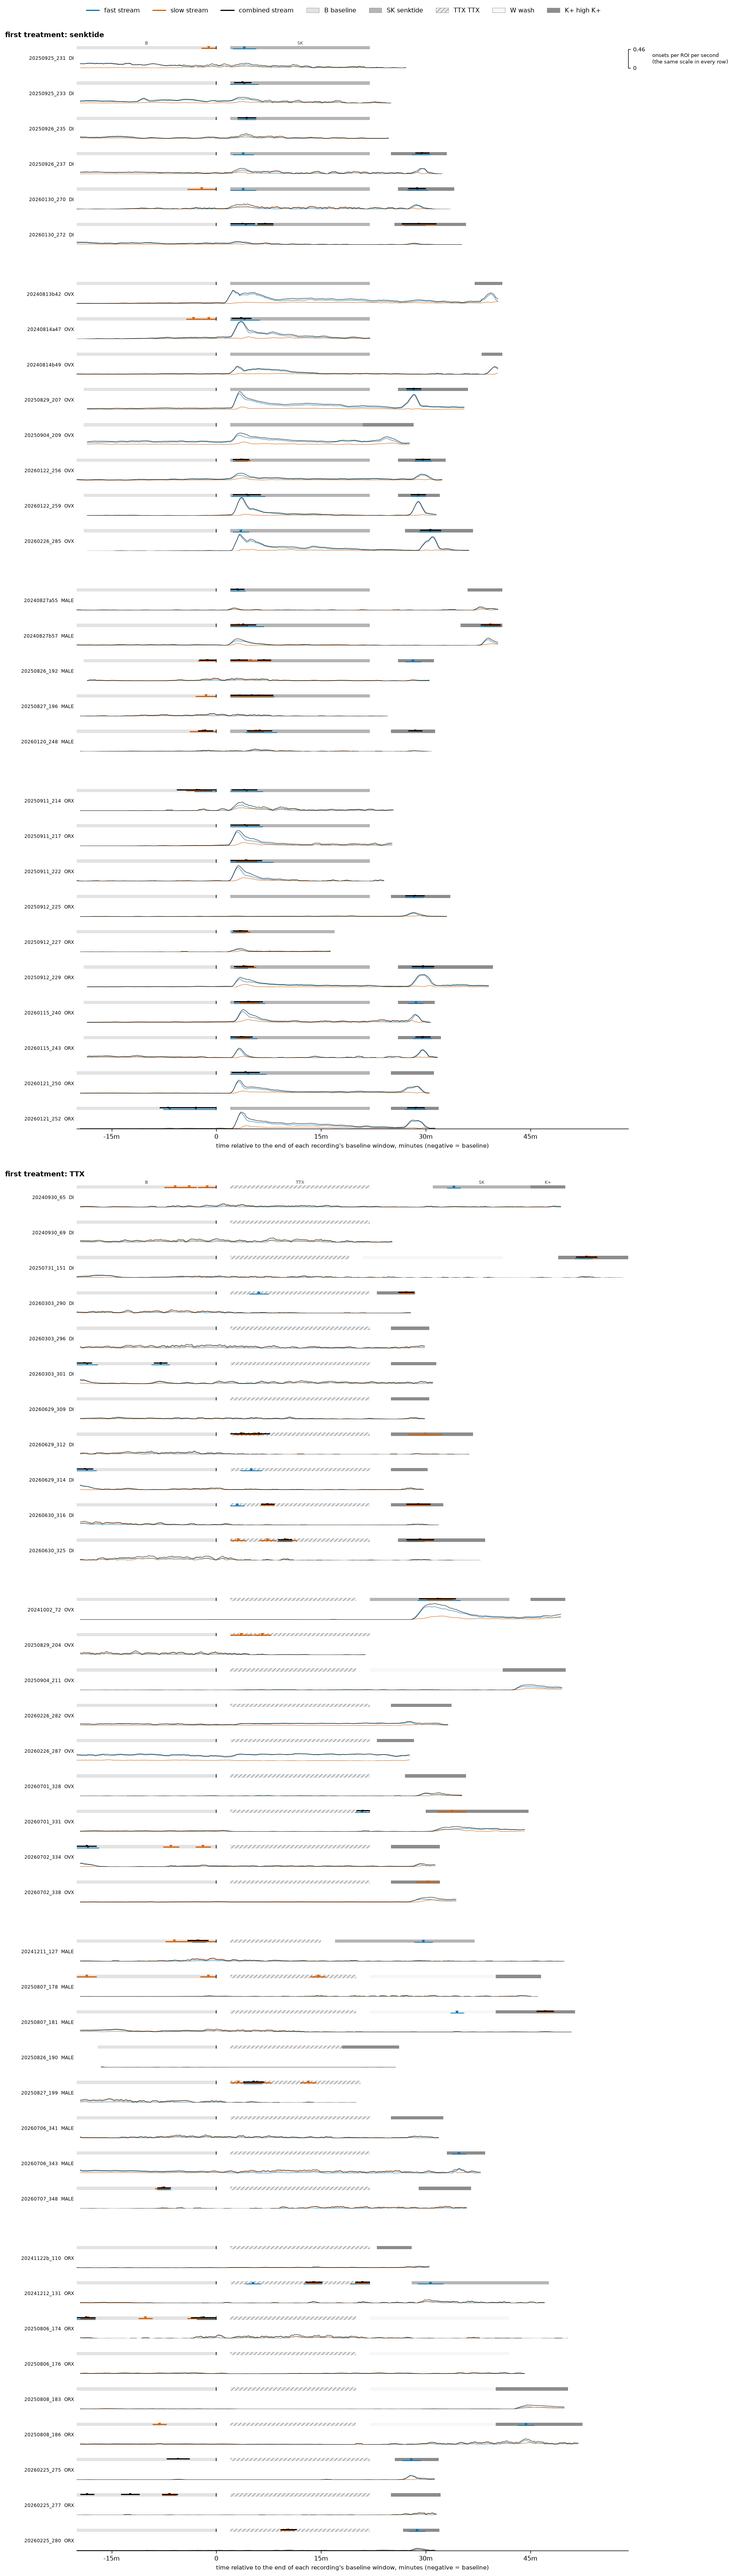
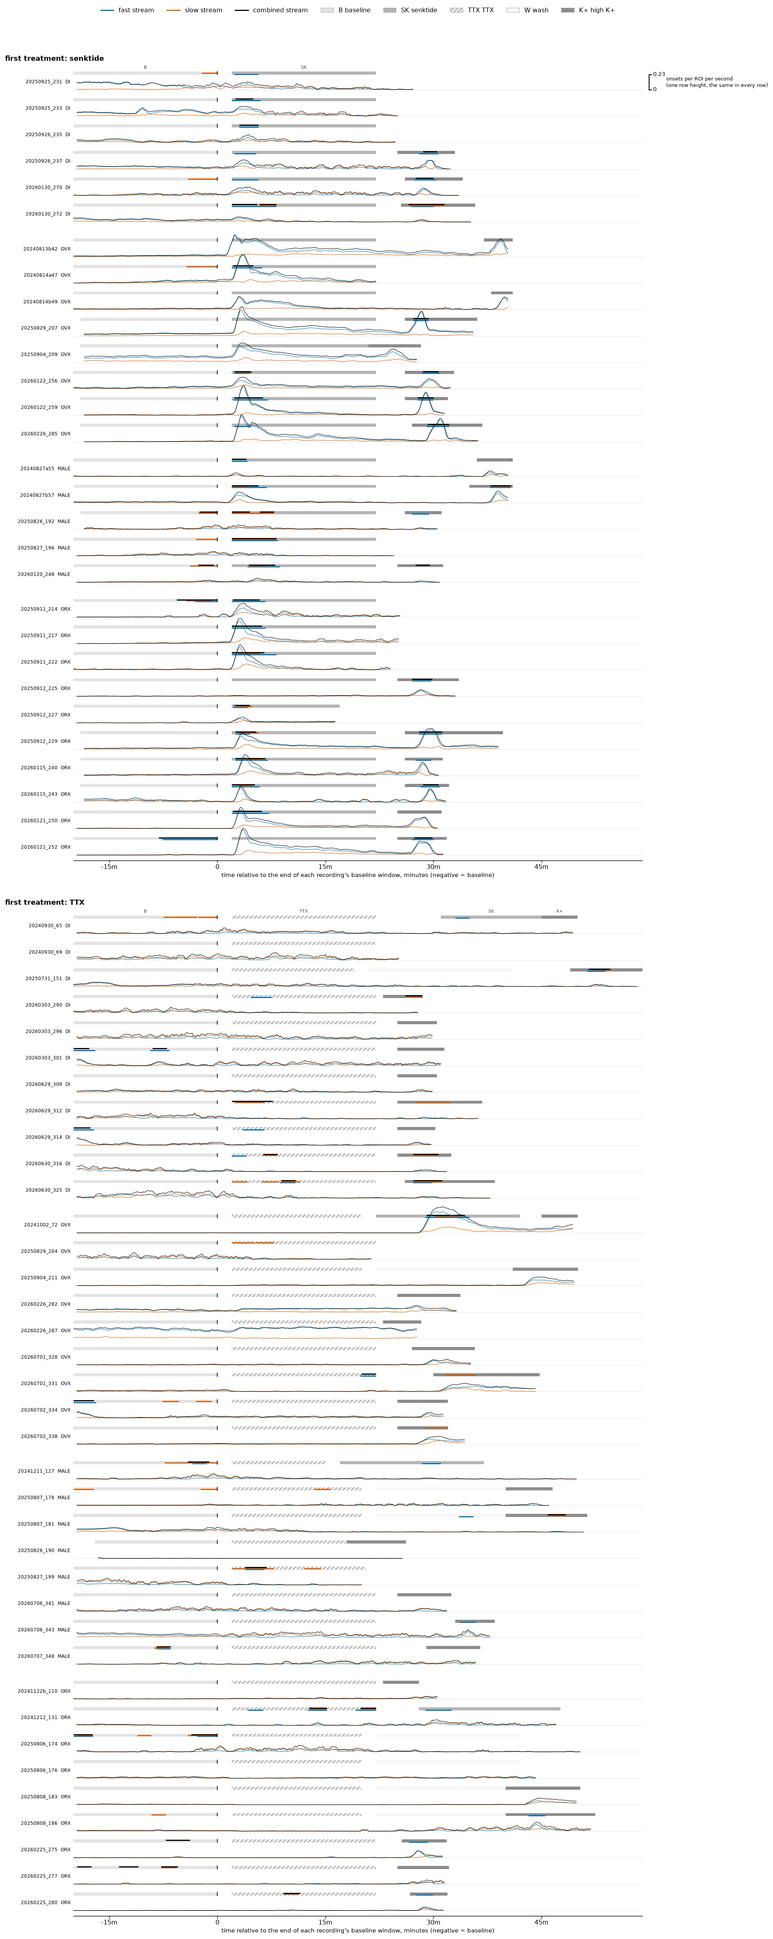
Figure 3 as a hidden-line waterfall at twice the gain
Tony: let the plots overrun their axes for about 2x magnification. One
row height is now 0.23 onsets per ROI per second in every row; traces
above it run up into the rows above, unclipped. Rows are drawn top
down in one axes, each on a white fill up to its highest curve, so a
lower row's peak hides what is behind it; within a row the traces sit
over the lane. The largest peak reaches 1.97 rows; 14 rows exceed one
row and none reaches two, all listed in the caption. Figures 1a-c keep
their per-row scales.

Changed region(s): [[0.0309, 0.0, 0.7733, 0.9996]]

diff --git a/tools/make_rate_stretch_figures.py b/tools/make_rate_stretch_figures.py
@@ -274,9 +274,145 @@ def fig1(R, stream, out: Path, curves: dict) -> Path:
     return stacked(R, (stream,), False, out / f"fig1_{stream}_population_rate.png", curves)[0]
 
 
+ROW_HZ = 0.23
+"""Figure 3's gain: one row height is 0.23 onsets per ROI per second (Tony, 2026-09-24: "let the
+plots overrun their axes ... a mag of ~2x"). The largest peak, 0.452, reaches about two rows."""
+
+
 def fig3(R, out: Path, curves: dict) -> tuple[Path, dict]:
-    """The three streams superimposed on ONE y-scale with a single reference axis."""
-    return stacked(R, STREAMS, True, out / "fig3_three_streams_one_scale.png", curves)
+    """The three streams superimposed on ONE scale, drawn as a hidden-line waterfall.
+
+    One axes, one row per recording at its own vertical offset; a row height is :data:`ROW_HZ`.
+    A trace that exceeds it runs up into the rows above, unclipped and never rescaled. Rows are
+    drawn from the top down, each at a higher z-order than the row above it, and each row's traces
+    sit on a white fill from their baseline up to the highest of the three curves, so a lower
+    row's peak covers what lies behind it instead of tangling with it. Within a row: fill, then the
+    window lane, then the traces, so a peak that crosses its own lane stays visible. Everything else
+    is Figure 1's layout. Returns the path and a record of the scale and of rows that overrun."""
+    by = {}
+    for r in R["rows"]:
+        by.setdefault(r["slice_id"], {}).setdefault(r["stream"], []).append(r)
+    for sid in by:
+        for s in by[sid]:
+            by[sid][s].sort(key=lambda r: r["win_start"])
+    lead = "fast"
+    order = [sid for sid, _ in recordings(R["rows"], lead)]
+
+    def zero(ws):
+        b = next((w for w in ws if w["window_type"] == "baseline"), None)
+        return b["win_end"] if b else 0.0
+
+    def treat(sid):
+        return by[sid][lead][0]["first_treatment"]
+
+    H, LH, GAP, GGAP, BGAP, AXROOM = 1.0, 0.2, 0.55, 1.1, 2.6, 1.4
+    y, base, prev, block_last = 0.0, {}, None, {}
+    for i, sid in enumerate(order):
+        head = by[sid][lead][0]
+        key = (head["first_treatment"], head["group"])
+        if prev is not None:
+            y -= BGAP + AXROOM if key[0] != prev[0] else (GGAP if key[1] != prev[1] else GAP)
+        y -= LH + H
+        base[sid] = y
+        block_last[key[0]] = sid
+        prev = key
+    zs = {sid: zero(by[sid][lead]) for sid in order}
+    tmin = min(w["win_start"] - zs[sid] for sid in order for w in by[sid][lead])
+    tmax = max(w["win_end"] - zs[sid] for sid in order for w in by[sid][lead])
+    span_y = -y + 3.0
+    fig, ax = plt.subplots(figsize=(14, 0.3 * span_y + 1.0))
+    fig.subplots_adjust(top=0.985, bottom=0.01, left=0.1, right=0.9)
+    ax.set_xlim(tmin, tmax)
+    ax.set_ylim(y - AXROOM, 2.8)
+    ax.axis("off")
+    level = {"fast": 0.15, "slow": 0.45, "combined": 0.75}
+    overrun, prev_treat = [], None
+    for k, sid in enumerate(order):
+        b0, z = base[sid], zs[sid]
+        zf, zl, zt = 10 + 3 * k, 11 + 3 * k, 12 + 3 * k
+        lane_lo = b0 + H
+        t = treat(sid)
+        named = t != prev_treat
+        prev_treat = t
+        # the lane, flush on top of the trace's row
+        for w in by[sid][lead]:
+            a, b = w["win_start"] - z, w["win_end"] - z
+            ax.add_patch(plt.Rectangle((a, lane_lo), b - a, LH, facecolor=TINT.get(
+                w["window_type"], "#FFFFFF"), edgecolor="#9A9A9A", hatch=HATCH.get(
+                w["window_type"]), lw=0, zorder=zl))
+            if named:
+                ax.text((a + b) / 2, lane_lo + LH + 0.12, SHORT.get(w["window_type"], "?"),
+                        ha="center", va="bottom", fontsize=6, color="0.25", zorder=zl)
+        for s in STREAMS:
+            for w in by[sid].get(s, []):
+                for st in w["measures"]["60.0"].get("stretches", {}).get("3.0", []):
+                    yy = lane_lo + LH * level[s]
+                    ax.plot([st["start"] - z, st["end"] - z], [yy, yy], color=STREAM_INK[s],
+                            lw=1.6, solid_capstyle="butt", zorder=zl + 0.5)
+        ax.plot([0, 0], [lane_lo, lane_lo + LH], color="black", lw=1.0, zorder=zl + 0.5)
+        # the traces: white fill up to the highest curve, then the curves
+        cs = {s: curves.get(sid, {}).get(s) for s in STREAMS}
+        grid = next((np.asarray(c["starts"]) for c in cs.values() if c), None)
+        if grid is not None:
+            top = np.max([np.asarray(c["rate_hz"]) for c in cs.values()
+                          if c and len(c["rate_hz"]) == grid.size], axis=0)
+            x = grid + 30.0 - z
+            ax.fill_between(x, b0, b0 + top / ROW_HZ, color="white", lw=0, zorder=zf)
+            peak = float(top.max())
+            if peak > ROW_HZ:
+                overrun.append((sid, peak, peak / ROW_HZ))
+            for s in STREAMS:
+                c = cs[s]
+                if c:
+                    ax.plot(x, b0 + np.asarray(c["rate_hz"]) / ROW_HZ, color=STREAM_INK[s],
+                            lw=0.6, zorder=zt)
+        ax.plot([tmin, tmax], [b0, b0], color="0.85", lw=0.4, zorder=zf - 0.5)
+        ax.text(tmin - (tmax - tmin) * 0.005, b0 + H / 2, f"{sid}  {by[sid][lead][0]['group']}",
+                ha="right", va="center", fontsize=6.5, clip_on=False)
+    # One time axis under the last row of each first-treatment block.
+    tk = tticks(tmin, tmax)
+    for tr, sid in block_last.items():
+        ya = base[sid] - 0.35
+        ax.plot([tmin, tmax], [ya, ya], color="black", lw=0.8, clip_on=False)
+        for x in tk:
+            ax.plot([x, x], [ya, ya - 0.15], color="black", lw=0.8, clip_on=False)
+            ax.text(x, ya - 0.25, "0" if x == 0 else tlabel(x), ha="center", va="top",
+                    fontsize=9, clip_on=False)
+        ax.text((tmin + tmax) / 2, ya - 0.8, "time relative to the end of each recording's "
+                "baseline window, minutes (negative = baseline)", ha="center", va="top",
+                fontsize=8.5, clip_on=False)
+    firsts = {}
+    for sid in order:
+        firsts.setdefault(treat(sid), sid)
+    for tr, sid in firsts.items():
+        ax.text(tmin - (tmax - tmin) * 0.12, base[sid] + H + LH + 0.6,
+                f"first treatment: {tr or 'none'}", ha="left", va="bottom", fontsize=10,
+                fontweight="bold", clip_on=False)
+    # The one reference scale: a bar one row high, at the first row, right of the data.
+    b0 = base[order[0]]
+    xr = tmax + (tmax - tmin) * 0.012
+    ax.plot([xr, xr], [b0, b0 + H], color="black", lw=1.2, clip_on=False)
+    for yy, lab in ((b0, "0"), (b0 + H, f"{ROW_HZ:g}")):
+        ax.plot([xr, xr + (tmax - tmin) * 0.004], [yy, yy], color="black", lw=1.2,
+                clip_on=False)
+        ax.text(xr + (tmax - tmin) * 0.007, yy, lab, ha="left", va="center", fontsize=7.5,
+                clip_on=False)
+    ax.text(xr + (tmax - tmin) * 0.03, b0 + H / 2, "onsets per ROI per second\n(one row height, "
+            "the same in every row)", ha="left", va="center", fontsize=7, clip_on=False)
+    from matplotlib.patches import Patch
+    key = [Patch(facecolor=TINT[k], edgecolor="#9A9A9A", hatch=HATCH.get(k), lw=0.5,
+                 label=f"{SHORT[k]} {k}") for k in ("baseline", "senktide", "TTX", "wash",
+                                                     "high K+")]
+    fig.legend(handles=[*(Line2D([], [], color=STREAM_INK[s], lw=1.6, label=f"{s} stream")
+                          for s in STREAMS), *key],
+               loc="lower center", ncol=8, fontsize=9, frameon=False, bbox_to_anchor=(0.5, 0.99))
+    p = out / "fig3_three_streams_one_scale.png"
+    fig.savefig(p, dpi=130, bbox_inches="tight")
+    plt.close(fig)
+    overrun.sort(key=lambda r: -r[1])
+    return p, dict(row_hz=ROW_HZ, largest=overrun[0] if overrun else None,
+                   rows_over_one_row=len(overrun), rows_over_two_rows=sum(r[2] > 2 for r in overrun),
+                   overrun=[dict(slice_id=a, peak_hz=b, rows=c) for a, b, c in overrun])
 
 
 def fig2(R, out: Path) -> Path:

diff --git a/docs/learned/runs/2026-09-24-elevated-rate-stretches/README.md b/docs/learned/runs/2026-09-24-elevated-rate-stretches/README.md
@@ -163,7 +163,7 @@ code on bench seeds 1–8, quiet and busy.
 ![Figure 3](fig3_three_streams_one_scale.png)
 
 **Figure 3.** Population rate of the fast, slow and combined streams, superimposed, in every
-recording, all on one y-scale.
+recording, all on one y-scale, drawn as a hidden-line waterfall at twice the gain of a fitted scale.
 - **Streams:** fast in blue (#0072B2), slow in vermillion (#D55E00), combined in black. Combined
   is every fast and slow onset of an ROI as one train.
 - **Unit:** onsets per ROI per second, in a 60 s window stepped by 10 s.
@@ -173,13 +173,29 @@ recording, all on one y-scale.
   - Stretches are detected per window, as in the run.
   - The curves are cached beside `results.json` in the darkroom folder as `full_curves.json`,
     stamped with the dataset.
-- **One shared scale:** every row runs from 0 to **0.46 onsets per ROI per second**, with no per-row
-  rescaling. The one reference axis is at the top right, on the first row.
-  - On the continuous curves, the largest value is 0.452 (20260122_259, combined stream, inside
-    its senktide window, not in a gap), and the next is 0.450 (20250829_207, combined, senktide).
-    So no single recording sets the scale alone, and no peak between windows exceeds it.
-  - The median recording peaks at about 0.11, so sparse recordings, many of them ORX, sit low.
-    That is the comparison the shared scale is for.
+- **One shared scale, gain ×2, as a waterfall:**
+  - **One row height is 0.23 onsets per ROI per second**, the same in every row, shown by the one
+    reference bar at the top right.
+  - A trace that exceeds it runs up into the rows above. Nothing is clipped and no row is rescaled.
+  - The largest peak, 0.452 (20260122_259, combined stream, inside its senktide window, not in a
+    gap), reaches about two row heights (1.97).
+  - The median recording peaks at about 0.11, half a row.
+- **Hidden-line drawing:**
+  - Rows are drawn from the top down, and each row's traces sit on a white fill from the row's
+    baseline up to the highest of its three curves. So a lower row's peak covers what lies behind
+    it in the rows above, instead of tangling with it.
+  - Within a row the traces are drawn over the window lane, so a peak that crosses its own lane
+    stays visible.
+  - A faint grey line marks each row's zero.
+- **Rows that overrun:**
+  - 14 rows peak above one row height, and none reaches two:
+    20260122_259 (1.97 rows), 20250829_207 (1.96), 20240814a47 (1.91), 20260226_285 (1.82),
+    20260121_252 (1.78), 20241002_72 (1.73), 20250911_222 (1.68), 20250911_217 (1.67),
+    20240813b42 (1.46), 20260115_240 (1.42), 20260121_250 (1.40), 20250912_229 (1.38),
+    20250904_209 (1.30), 20260115_243 (1.05).
+  - All but 20241002_72 peak in the senktide block, most at senktide onset. There the white fill
+    of each row covers the peak-free stretches of the row above for up to about one row. The gain
+    was not changed.
 - **Time axis:** time relative to the end of each recording's baseline window, in minutes; 0 is
   baseline end, and negative time is baseline. It is drawn only under the last row of each
   first-treatment block.
